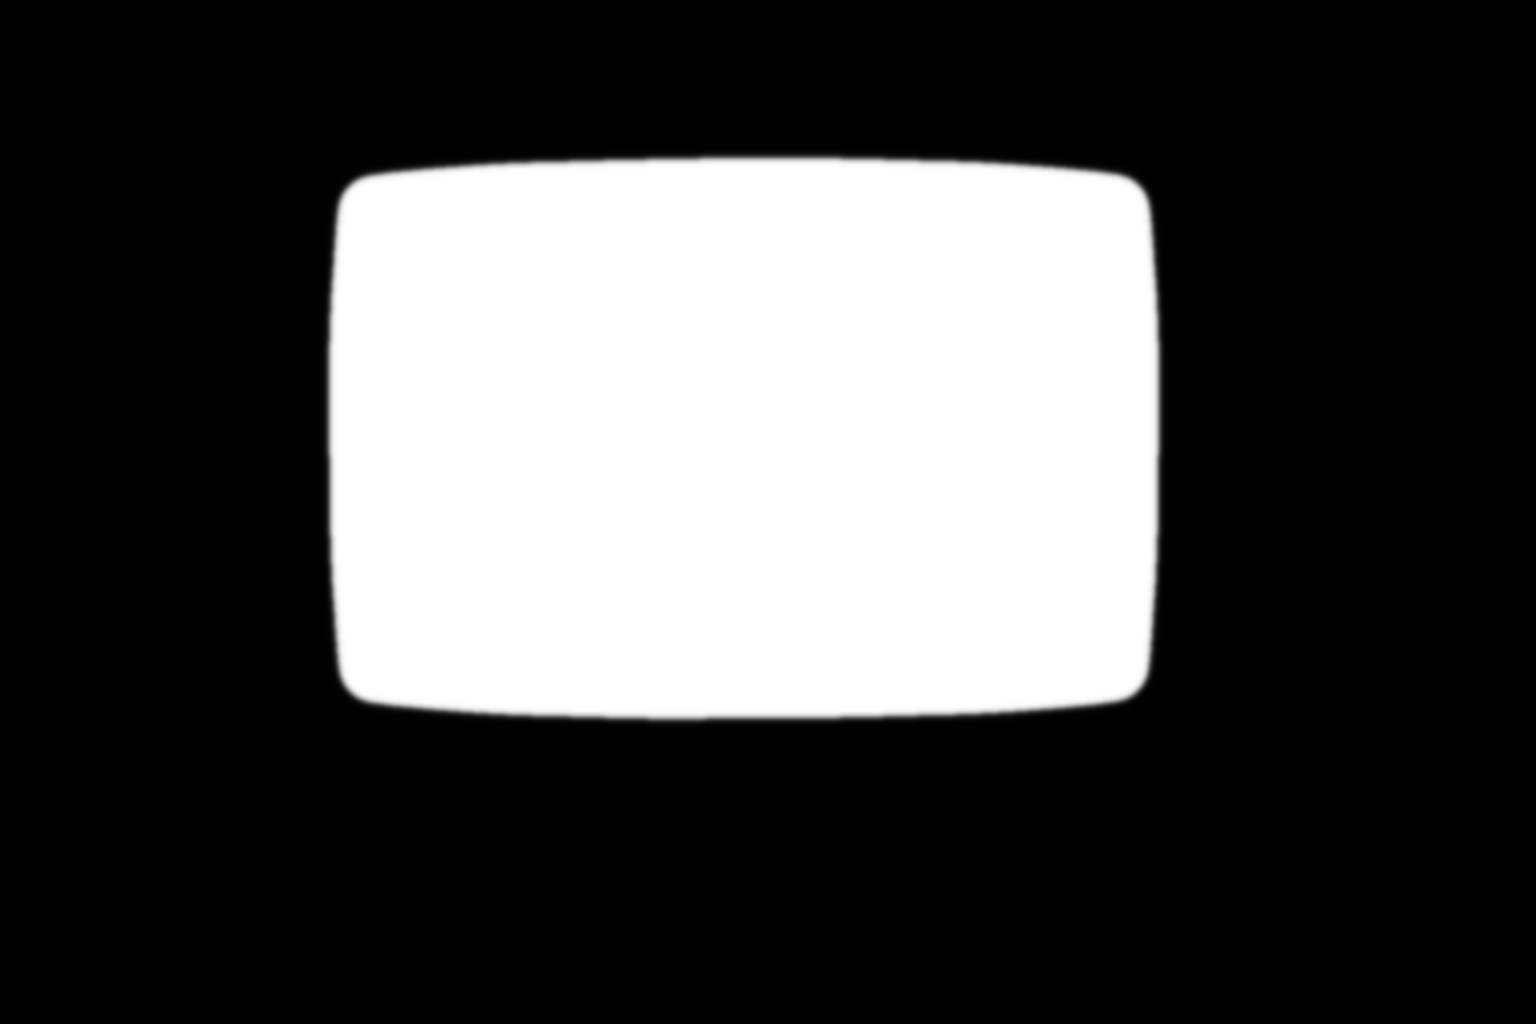
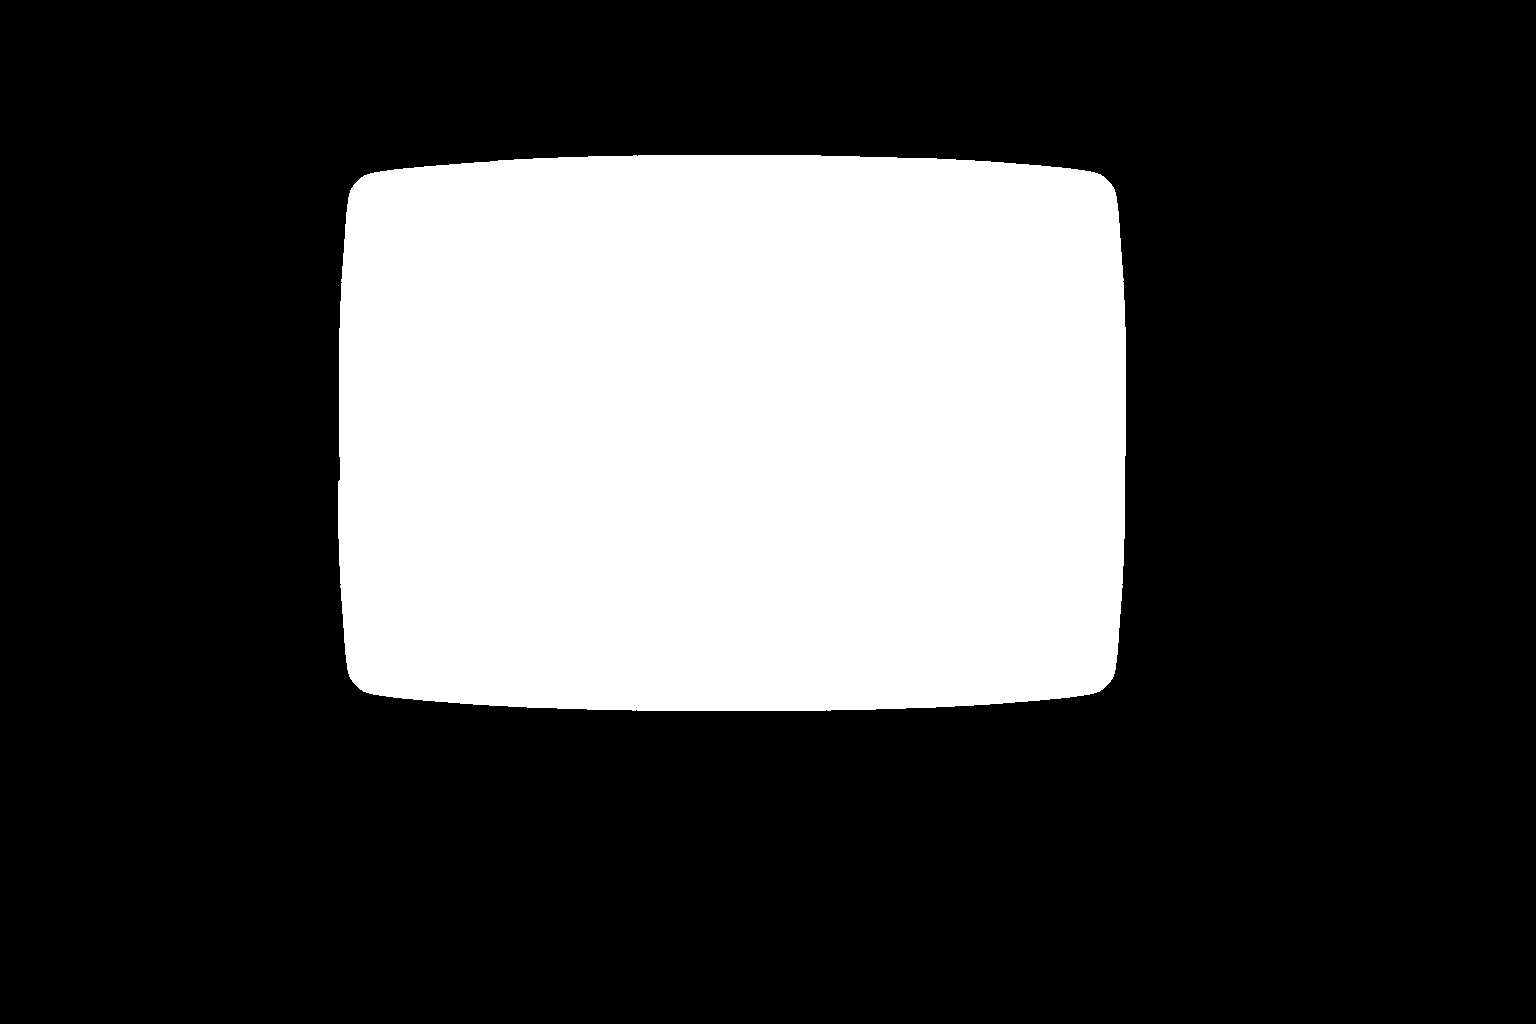
feat(renderer): matte masking + glassFX layer fully integrated
- Final matte mask (inverted alpha) applied using `mask-image`
- Rebuilt glassFXLayer with backdrop blur, tint, vignette
- Resolved ghosting bug from duplicate CSS loading
- Removed deprecated crtFXOverlay and terminal menu
- Terminal alignment corrected (816×540 @ 552,192)

Changed region(s): [[0.1875, 0.125, 0.7812, 0.7188]]

diff --git a/styles.css b/styles.css
@@ -10,7 +10,7 @@ html, body {
   width: 1920px;
   height: 1080px;
   background: url('./assets/70sterminal.png') center center no-repeat;
-  background-size: cover;
+  background-size: 1920px 1080px;
   position: relative;
   overflow: hidden;
 }
@@ -185,51 +185,74 @@ canvas {
   border-color: #FFFFFF;
 }
 
+/* --- Terminal Container (frameWrapper + iframe) --- */
+
 #frameWrapper {
   position: absolute;
   width: 800px;
-  height: 600px;
-  left: 520px;
-  top: 151px;
-  z-index: 10; /* base layer */
-  transform: translateZ(0);
-  will-change: transform;
-
+  height: 530px;
+  border: #FFFFFF solid red;
+  left: 520px; /* 1920/2 - 400 */
+  top: 220px;  /* CRT alignment */
+  border: none;
 }
-#crtFXOverlay {
+
+iframe {
+  width: 800px;
+  height: 500px;
+  border: none;
+  background: black;
+  display: block;
+}
+
+#glassFXLayer {
   position: absolute;
   top: 0;
   left: 0;
   width: 1920px;
   height: 1080px;
+  z-index: 9000;
   pointer-events: none;
-  z-index: 9999;
-  isolation: isolate;
 
+  /* Matte mask applied directly to clip FX */
+  -webkit-mask-image: url('./assets/70sterminalmasksolid.png');
+  -webkit-mask-mode: alpha;
+  -webkit-mask-repeat: no-repeat;
+  -webkit-mask-size: 1920px 1080px;
 
-  outline: 2px solid red; /* 🔧 highlight full mask bounds */
-  background: rgba(255, 0, 0, 0.1); /* optional red tint for edge bleed debug */
+  mask-image: url('./assets/70sterminalmasksolid.png');
+  mask-mode: alpha;
+  mask-repeat: no-repeat;
+  mask-size: 1920px 1080px;
 
-  /* Temporarily disable the mask while aligning */
-  -webkit-mask-image: none;
-  mask-image: none;
+  /* FX tuning */
+  background: rgba(255, 255, 255, 0.02);
+  backdrop-filter: blur(0.5px) brightness(1.03) contrast(1.2);
+  -webkit-backdrop-filter: blur(0.5px) brightness(1.03) contrast(1.2);
 }
 
-
-
-
-
-#crtFXOverlay::before {
+#glassFXLayer::before {
   content: "";
   position: absolute;
-  display: block;
   top: 0; left: 0; right: 0; bottom: 0;
-  background: url('./assets/scanlines.png') repeat;
-  background-size: 100% 6px;
-  opacity: 0.12;
+  background: rgba(0, 255, 0, 0.07); /* softer neon tint */
   pointer-events: none;
-  z-index: 1;
 }
+
+#glassFXLayer::after {
+  content: "";
+  position: absolute;
+  top: 0; left: 0; right: 0; bottom: 0;
+  background: radial-gradient(
+    ellipse at center,
+    transparent 60%,
+    rgba(0, 0, 0, 0.15) 100%
+  );
+  pointer-events: none;
+  z-index: 2;
+}
+
+
 
 
 

diff --git a/terminal.html b/terminal.html
@@ -5,27 +5,25 @@
   <meta name="viewport" content="width=device-width, initial-scale=1.0">
   <title>node.zero</title>
 
-  <!-- xterm.js default styles -->
-  <link rel="stylesheet" href="https://cdn.jsdelivr.net/npm/xterm/css/xterm.css" />
-
-  <!-- Custom CRT Styles -->
-  <link rel="stylesheet" href="./styles.css">
+   <!-- Custom CRT Styles -->
+  <link rel="stylesheet" href="./terminalStyles.css">
 </head> 
 <body class="boot-blackout">
   <div id="boot-blackout-layer"></div>
 
   <div id="layout">
     <div id="terminal"></div>
-    <div id="scanline"></div>
-    <div id="burnin"></div>
-    <div id="noise"></div>
-    <div id="noise2"></div>
+
+
+
+    
+
 
     <!-- Menu Button -->
-    <button id="menuButton">MENU</button>
+<!--    <button id="menuButton">MENU</button>
 
     <!-- Menu Overlay -->
-    <div id="menuOverlay">
+<!--    <div id="menuOverlay">
       <button id="closeMenu">X</button>
 
       <div class="menuSetting">
@@ -55,7 +53,7 @@
       <div class="menuSetting">
         <label>Theme:</label><br>
         <button id="themeGreen">The Matrix</button>
-        <!-- <button id="themeYellow">Fallout</button> -->
+         <button id="themeYellow">Fallout</button> -->
       </div>
     </div>
   </div>

diff --git a/index.html b/index.html
@@ -7,30 +7,17 @@
   <link rel="stylesheet" href="./styles.css">
   <style>
 
-    #frameWrapper {
-      position: absolute;
-      width: 800px;
-      height: 600px;
-      left: 520px; /* 1920/2 - 400 */
-      top: 151px;  /* CRT alignment */
-      border: none;
-    }
-
-    iframe {
-      width: 800px;
-      height: 600px;
-      border: none;
-      background: black;
-      display: block;
-    }
   </style>
 </head>
 <body>
 
-  <div id="crtFXOverlay"></div>
+    <div id="glassFXLayer"></div>
+  
   <div id="frameWrapper">
     <iframe src="./terminal.html" id="terminalFrame"></iframe>
   </div>
+  
+  
   
 
   <script>

diff --git a/terminalStyles.css b/terminalStyles.css
@@ -1,0 +1,34 @@
+/* === Base Layout === */
+html, body {
+    margin: 0;
+    padding: 0;
+    width: 100%;
+    height: 100%;
+    background: black;
+    overflow: hidden;
+    position: relative;
+  }
+  
+  /* === Layout Container === */
+  #layout {
+    position: relative;
+    height: 100vh;
+    width: 100vw;
+    display: flex;
+    flex-direction: column;
+  }
+  
+  /* === Terminal Area === */
+  #terminal {
+    flex: 1;
+    width: 100%;
+    overflow: hidden;
+  }
+  
+  canvas {
+    padding: 0;
+    margin: 0;
+    display: block;
+  }
+  
+

diff --git a/core/terminal/canvasTerminal.js b/core/terminal/canvasTerminal.js
@@ -80,10 +80,11 @@ function resizeCanvas() {
 }
 
 export function redraw() {
+  ctx.clearRect(0, 0, canvas.width, canvas.height); // 💥 clear buffer
   drawFromBuffer();
   drawTerminalFX(ctx);
-
 }
+
 
 export function startRenderLoop() {
   if (animating) return;
